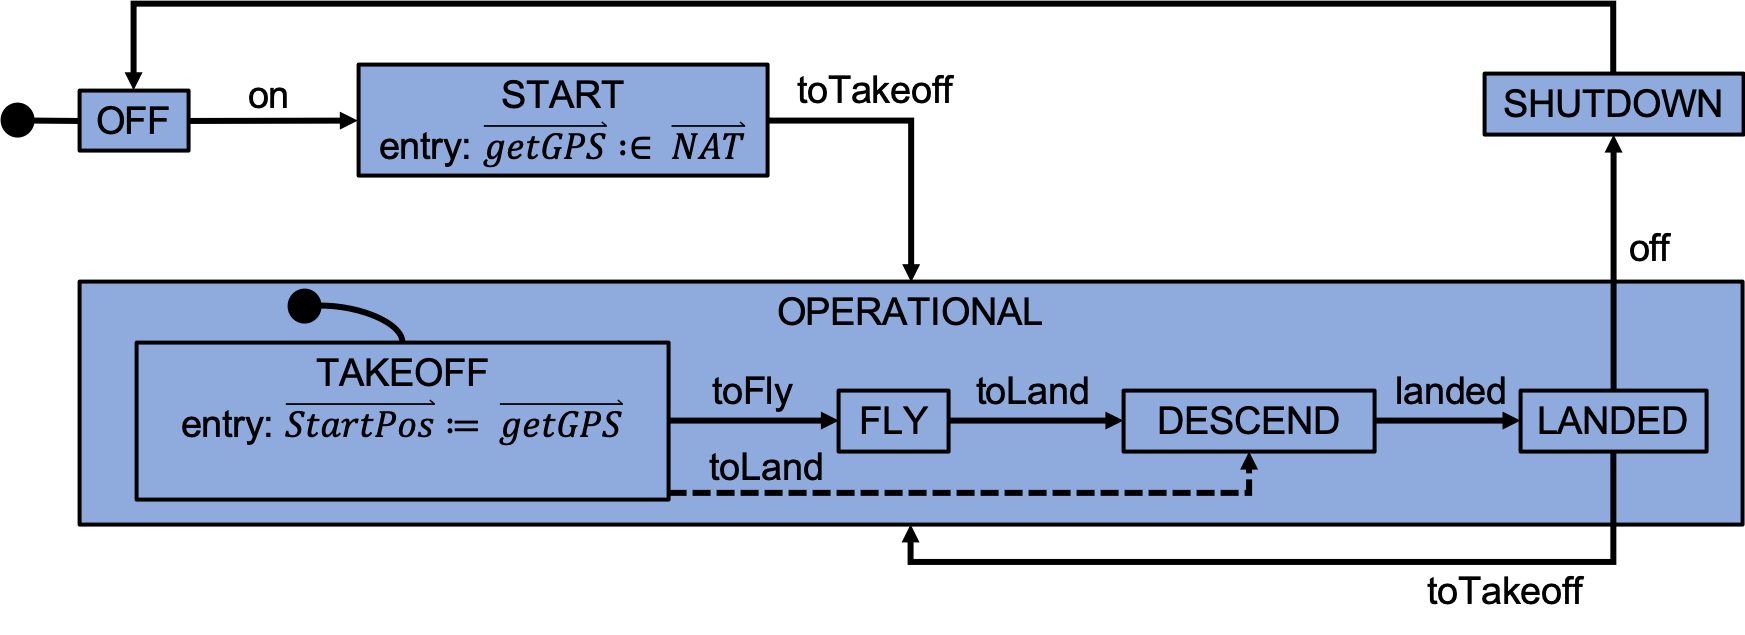
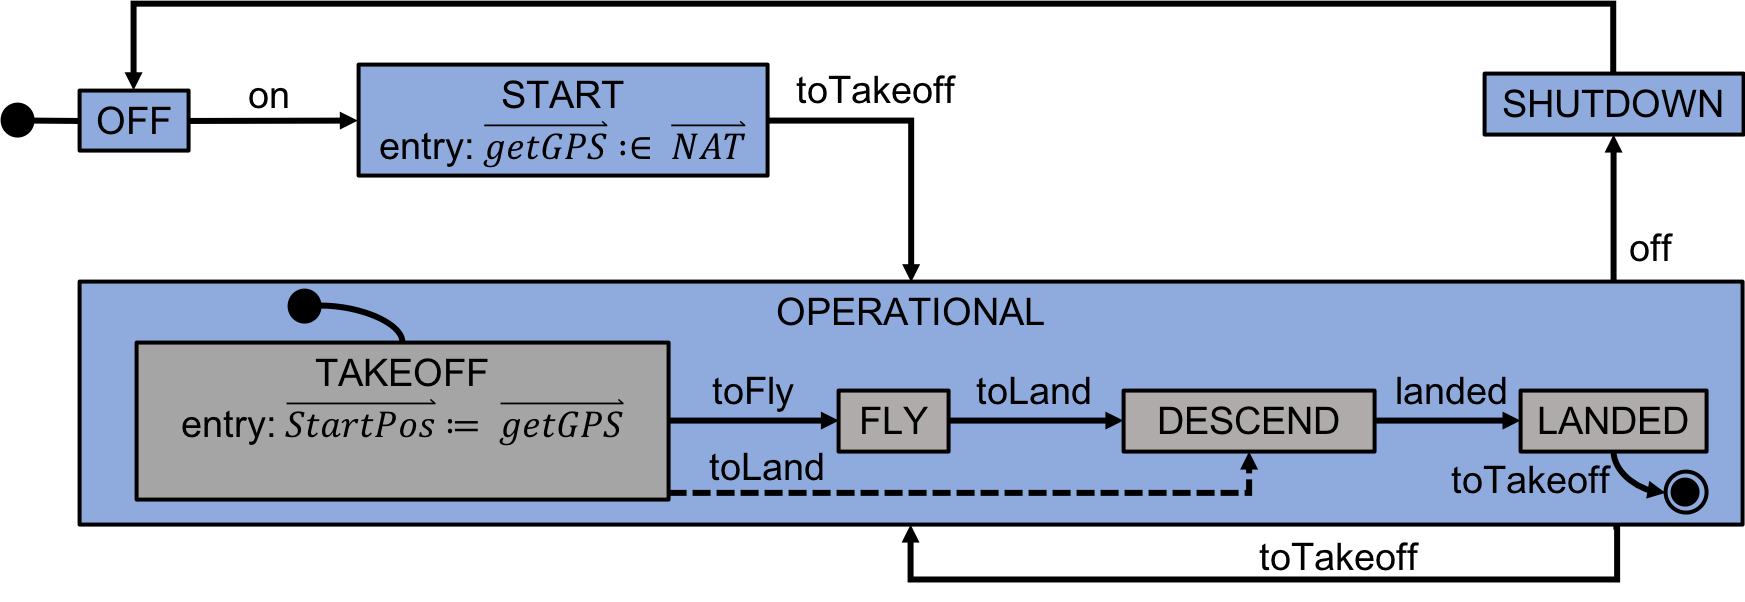
Updates to figures for drone model

diff --git a/manuscripts/ISSE/source/sections/descriptionOfSampleApplication.tex b/manuscripts/ISSE/source/sections/descriptionOfSampleApplication.tex
@@ -10,7 +10,7 @@ The constructed model must obey state-chart refinement rules listed in Section~\
 The structure of the state-chart for this model at each subsequent abstraction level restricts further the development of the model to refinements that obey the rules. 
 This will allow us to prove properties of the model in a very strategic fashion, as properties proven of early abstraction levels are preserved in later refinements.
 
-The initial abstraction and first refinement of the model, shown in Figure~\ref{fig:drone1}, captures the basic functionality of the drone. 
+The initial abstraction and first refinement of the model, shown in Figure~\ref{fig:drone1}, capture the basic functionality of the drone. 
 The model's initial state is |OFF| and as a result of the |on| and  |toTakeoff| external triggers it transitions to the |START| and |OPERATIONAL| states respectively\footnote{Transitions in Figures~\ref{fig:drone1}--\ref{fig:drone4} are labeled with trigger names
 (e.g. toTakeoff, toFly) not with event names as it is in \UMLB.}. 
 The drone reacts to the |off| external trigger by shutting down and subsequently transitioning to the |OFF| state.
@@ -24,13 +24,13 @@ It should be noted that this abstraction of the drone model includes a transitio
 This allows for the drone to respond to a |toLand| trigger if it encounters some problems while in the |TAKEOFF| state.
 Syriani et al.~\cite{Syriani_2019} introduces this transition in later refinements under Rule 8 \emph{path refinement rule}. 
 This rule is inconsistent with our rules of refinement as it results in a concrete event with no corresponding behavior in the abstraction.
-\ColinInlineComment{Fig 2 actually shows two levels - drone 0 and drone 1. I have corrected the text, could you change the colours of the substates}
+
 % \begin{figure}[!h]
 \begin{figure}[]
 	\vspace{-.4cm}
 	\centering
 	\includegraphics[width=0.90\textwidth, trim=0 40 0 0]{figures/Picture1.png}
-	\caption{State-chart of drone application. Abstract level including only generic start/shutdown behavior and first refinement introducing main operational sub-states. }
+	\caption{State-chart of drone application. Abstract level including only generic start/shutdown behavior (shown in blue). The first refinement introducing main operational sub-states, is shown in gray. }
 	\label{fig:drone1}
 	\vspace{-.4cm}
 \end{figure} 
@@ -49,7 +49,7 @@ This rule is inconsistent with our rules of refinement as it results in a concre
 % 	\label{fig:drone2}
 % \end{figure} 
 % \begin{figure}[!h]
-\ColinInlineComment{Fig 3 guards are incorrect.. 2 transitions to OPERATIONAL s.b. charge>50, transition to FLY s.b. change >40}
+
 \begin{figure}[]
 	\centering
 	\includegraphics[width=0.90\textwidth, trim=0 30 0 0]{figures/Picture5.png}
